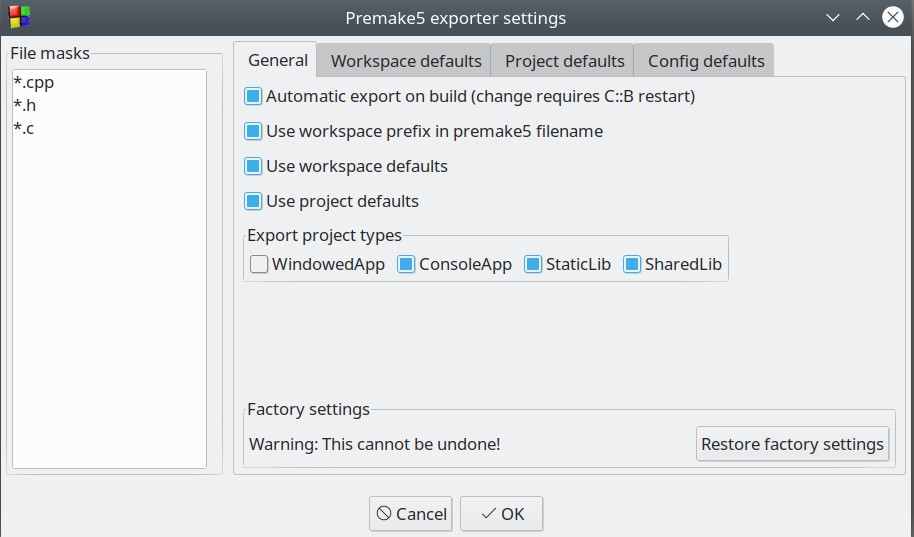
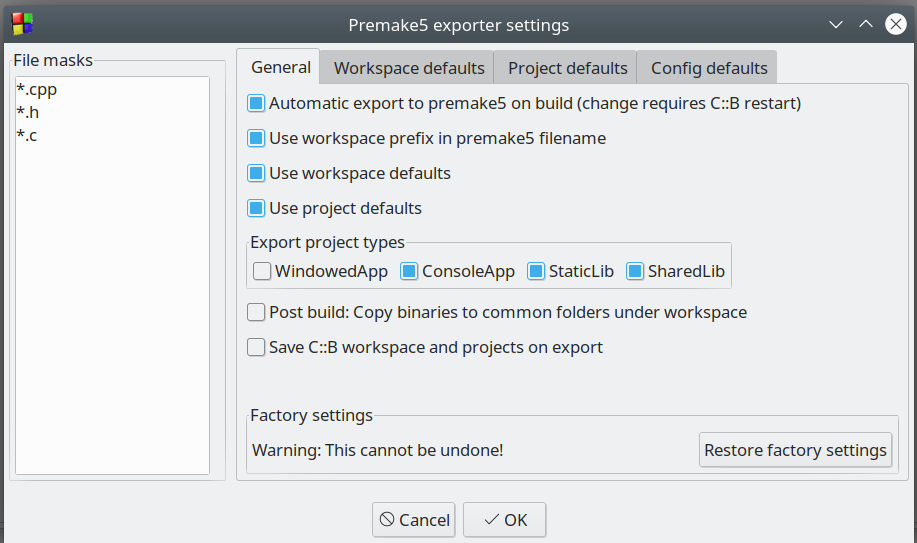
Updated README.md with new options

Changed region(s): [[0.0, 0.0, 1.0, 1.0], [0.3982, 0.9236, 0.5821, 0.9832]]

diff --git a/README.md b/README.md
@@ -51,15 +51,19 @@ The plugin has user adjustable options, accessed via the Code::Blocks Plugins me
 ### General
 Under *General*, settings include file name masks for files to be included and options to control the way the plugin works. 
 
-* *Automatic export on build*  causes the premake5 script to be regenerated every time you compile in Code::Blocks, eliminating the need for manual export (ref. Figure 1). 
+* *Automatic export on build*: causes the premake5 script to be regenerated every time you compile in Code::Blocks, eliminating the need for manual export (ref. Figure 1). 
 
-* *Use workspace prefix in premake5 filename* causes the simplified filename *premake5.lua*, to be prefixed with the workspace name, requiring --file=filename option in the premake5 command. 
+* *Use workspace prefix in premake5 filename*: causes the simplified filename *premake5.lua*, to be prefixed with the workspace name, requiring --file=filename option in the premake5 command. 
 
-* *Use workspace/projects defaults* causes these options to be applied before actual project values. 
+* *Use workspace/projects defaults*: causes these options to be applied before actual project values. 
 
-* *Export project types* makes it possible to filter which project types to be exported. For example, wxWidgets applications is of type "WindowedApp" and may require special buildoptions and linkoptions (see 'Features' below for more details).
+* *Export project types*: makes it possible to filter which project types to be exported. For example, wxWidgets applications is of type "WindowedApp" and may require special buildoptions and linkoptions (see 'Features' below for more details).
 
-* Pressing the *Restore factory settings* does the obvious thing, it resets all options back to their initial install state.
+* *Post build: Copy binaries to common folders under workspace*: copies built binaries from each project to common debug and release folders under the workspace build folder.
+
+* *Save C::B workspace and projects on export*: saves the C::B workspace and project files before exporting to premake5.
+
+* Pressing the *Restore factory settings*: does the obvious thing, it resets all options back to their initial install state.
 
 **Figure 3 - General**
 
